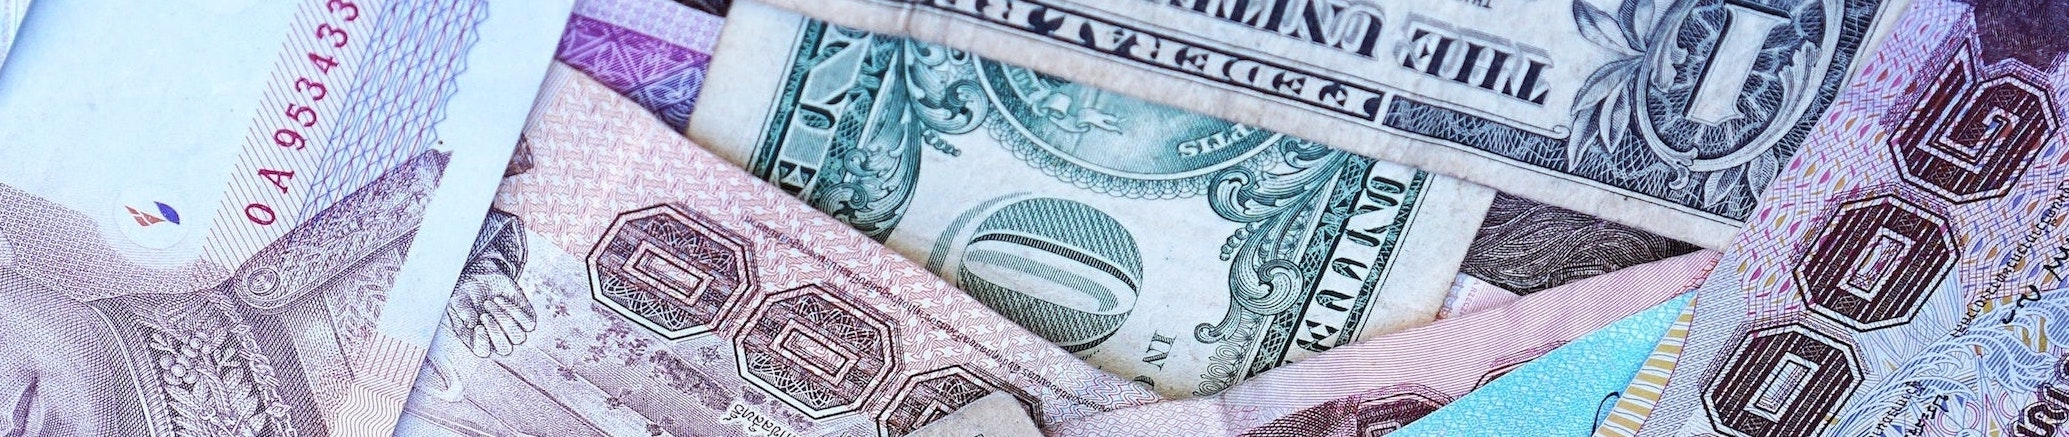
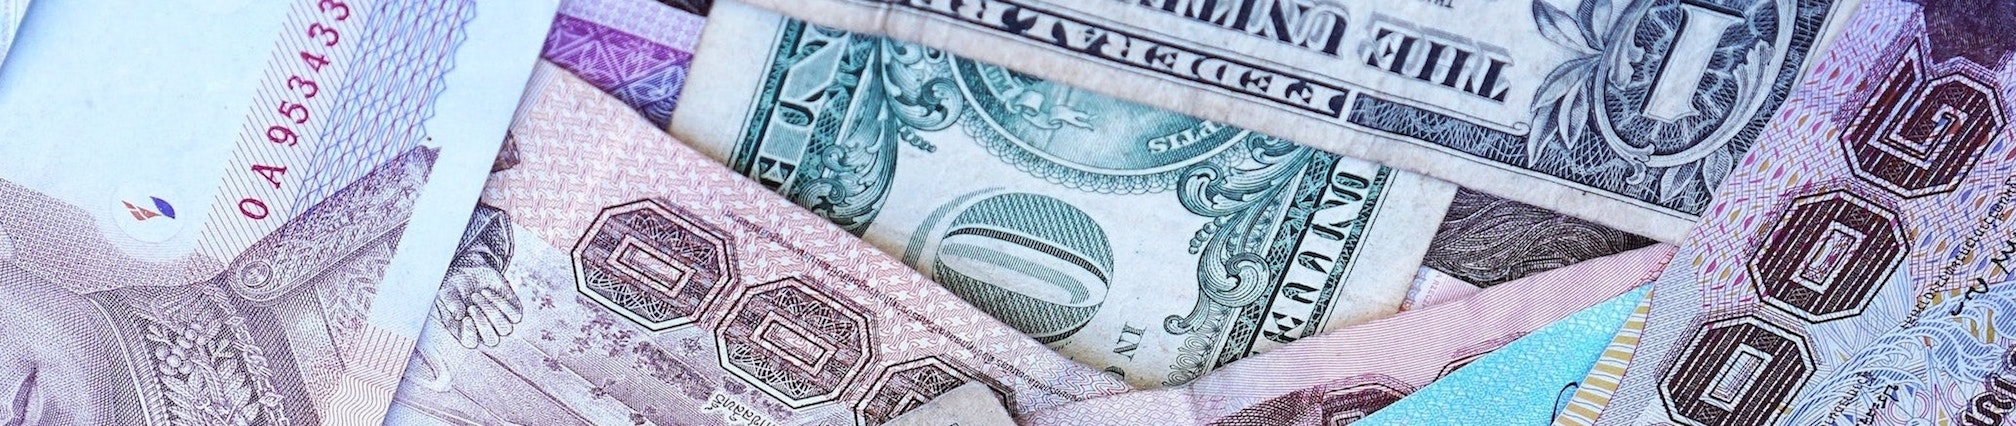
fixed currency pic

diff --git a/src/components/HistoricalDataForm.js b/src/components/HistoricalDataForm.js
@@ -49,8 +49,16 @@ class HistoricalDataForm extends Component {
   render() {
     return (
       <React.Fragment>
-        <h1> Historical Rates- 5 Year trend </h1>
         <form className="HistoricalInputForm">
+          <div className="clearButton">
+            <input
+              className="button"
+              onClick={this.handleHistoricalClickClear}
+              type="submit"
+              value="Return to Current Rate Converter"
+            />
+          </div>
+          <h1> Historical Rates- 5 Year trend </h1>
           <label>Enter the currency you have: </label>
           <input
             className="button"
@@ -69,14 +77,6 @@ class HistoricalDataForm extends Component {
             {this.createHistoricalOptions()}
           </select>
           <br /> <br />
-          <div className="clearButton">
-            <input
-              className="button"
-              onClick={this.handleHistoricalClickClear}
-              type="submit"
-              value="Return to Current Rate Converter"
-            />
-          </div>
         </form>
         <AreaChart
           colors={["#163913"]}

diff --git a/src/components/CurrentDataContainer.js b/src/components/CurrentDataContainer.js
@@ -3,6 +3,7 @@ import CurrentInputForm from "./CurrentInputForm";
 import HistoricalDataForm from "./HistoricalDataForm";
 import Trips from "./Trips";
 import background from "../background.jpg";
+import banknotes from "../banknotes.jpg";
 
 class CurrentDataContainer extends Component {
   constructor(props) {
@@ -52,7 +53,7 @@ class CurrentDataContainer extends Component {
             className="button"
             onClick={this.showHistorical}
             type="submit"
-            value="View Historical Data"
+            value="View Historical Rate Trends"
           />
         ) : null}
         <br />
@@ -72,7 +73,7 @@ class CurrentDataContainer extends Component {
         <br />
         <br />
         <div className="CurrentDataContainer">
-          {<img src={background} className="background" alt="currency" />}
+          {<img src={banknotes} className="background" alt="currency" />}
         </div>
       </div>
     );

diff --git a/src/css/App.css b/src/css/App.css
@@ -72,7 +72,7 @@
 }
 
 .CurrentDataContainer {
-  background-image: url("../background.jpg");
+  background-image: url("../banknotes.jpg");
   border-radius: 0px;
   margin-right: 15px;
 
